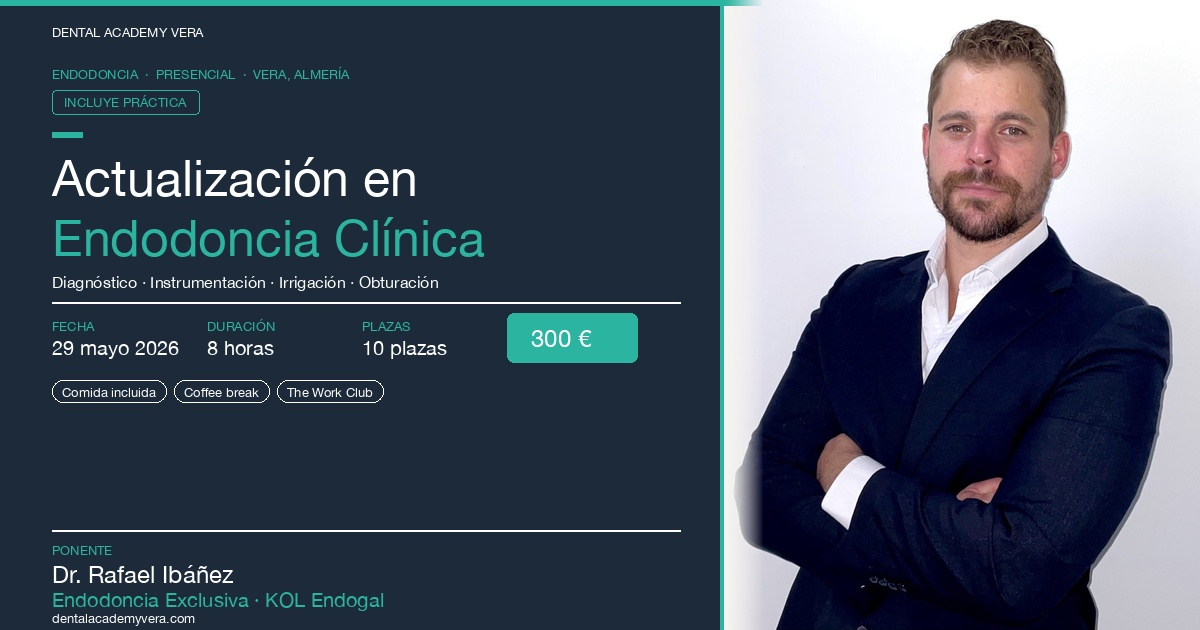
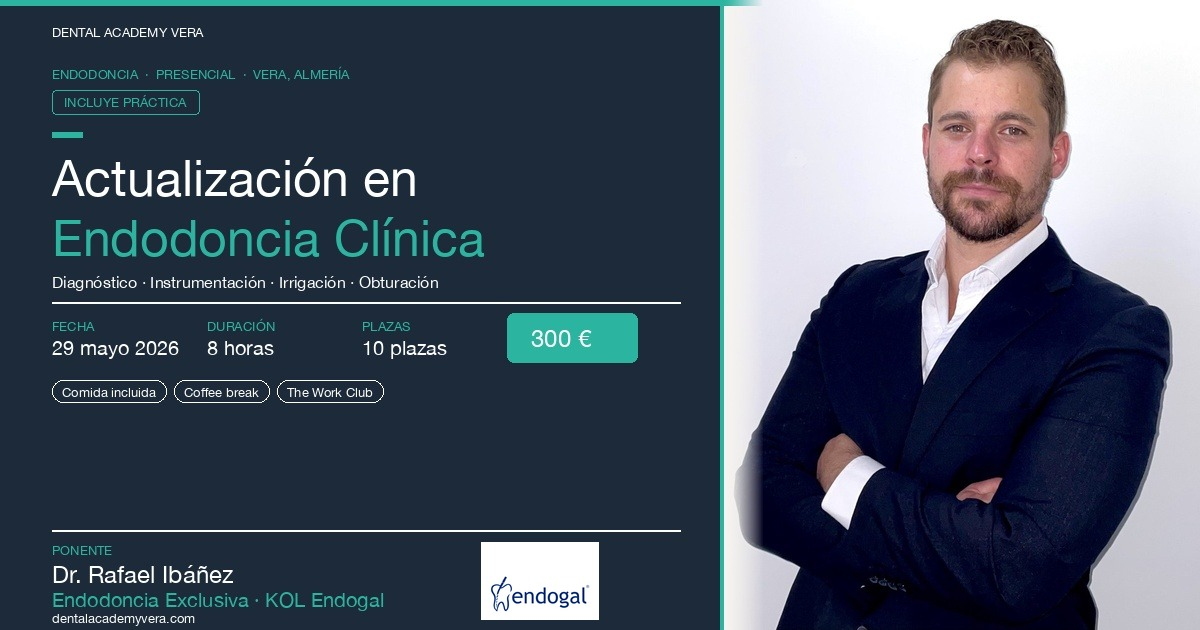
Add Endogal as collaborator across share images and course page
- Composite Endogal logo onto share-endodoncia-landscape.jpg and share-endodoncia-square.jpg
- Add Endogal logo to dynamic opengraph-image (edge runtime, base64 embed)
- Add "Colabora" section with Endogal logo to course page sidebar (desktop + mobile)
- Generate logo-white.png (Dental Academy Vera logo with white background)
- Add endogal.png and endogal-b64.ts helper module

Changed region(s): [[0.4008, 0.8444, 0.5242, 0.9952]]

diff --git a/lib/endogal-b64.ts b/lib/endogal-b64.ts
@@ -1,0 +1,1 @@
[1 lines of base64/hex data omitted]

diff --git a/app/cursos/[id]/page.tsx b/app/cursos/[id]/page.tsx
@@ -316,6 +316,27 @@ export default async function CoursePage({ params }: Props) {
                 <ProfessorCard professor={professor} />
               </section>
             )}
+
+            {/* Collaborator on mobile */}
+            <div className="mt-8 lg:hidden bg-white border border-gray-200 rounded-xl p-5 shadow-sm">
+              <div className="font-label text-[0.72rem] font-semibold tracking-[0.1em] uppercase text-gray-400 mb-4">
+                Colabora
+              </div>
+              <a
+                href="https://www.endogal.com"
+                target="_blank"
+                rel="noopener noreferrer"
+                className="flex items-center justify-center py-3 px-4 rounded-lg bg-gray-50 hover:bg-gray-100 transition-colors"
+              >
+                <Image
+                  src="/images/endogal.png"
+                  alt="Endogal"
+                  width={120}
+                  height={80}
+                  className="object-contain"
+                />
+              </a>
+            </div>
           </div>
 
           {/* RIGHT: Sidebar (desktop) */}
@@ -393,6 +414,27 @@ export default async function CoursePage({ params }: Props) {
                   </ul>
                 </div>
               )}
+            </div>
+
+            {/* Collaborator */}
+            <div className="bg-white border border-gray-200 rounded-xl p-5 shadow-sm">
+              <div className="font-label text-[0.72rem] font-semibold tracking-[0.1em] uppercase text-gray-400 mb-4">
+                Colabora
+              </div>
+              <a
+                href="https://www.endogal.com"
+                target="_blank"
+                rel="noopener noreferrer"
+                className="flex items-center justify-center py-3 px-4 rounded-lg bg-gray-50 hover:bg-gray-100 transition-colors"
+              >
+                <Image
+                  src="/images/endogal.png"
+                  alt="Endogal"
+                  width={120}
+                  height={80}
+                  className="object-contain"
+                />
+              </a>
             </div>
 
             {/* Professor sidebar */}

diff --git a/app/cursos/[id]/opengraph-image.tsx b/app/cursos/[id]/opengraph-image.tsx
@@ -1,5 +1,6 @@
 import { ImageResponse } from 'next/og'
 import { courses } from '@/lib/data/courses'
+import { ENDOGAL_WHITE_B64 } from '@/lib/endogal-b64'
 
 export const runtime = 'edge'
 export const size = { width: 1200, height: 630 }
@@ -317,6 +318,49 @@ export default async function Image({ params }: { params: Promise<{ id: string }
             }}
           >
             dentalacademyvera.com
+          </div>
+
+          {/* Collaborator logo */}
+          <div
+            style={{
+              position: 'absolute',
+              bottom: '22px',
+              right: '52px',
+              display: 'flex',
+              alignItems: 'center',
+              gap: '10px',
+            }}
+          >
+            <span
+              style={{
+                color: 'rgba(255,255,255,0.28)',
+                fontSize: '11px',
+                fontWeight: 600,
+                letterSpacing: '0.10em',
+                textTransform: 'uppercase',
+                display: 'flex',
+              }}
+            >
+              COLABORA
+            </span>
+            <div
+              style={{
+                background: 'white',
+                borderRadius: '6px',
+                padding: '5px 10px',
+                display: 'flex',
+                alignItems: 'center',
+              }}
+            >
+              {/* eslint-disable-next-line @next/next/no-img-element */}
+              <img
+                src={ENDOGAL_WHITE_B64}
+                alt="Endogal"
+                width={90}
+                height={60}
+                style={{ objectFit: 'contain', display: 'flex' }}
+              />
+            </div>
           </div>
         </div>
       </div>
